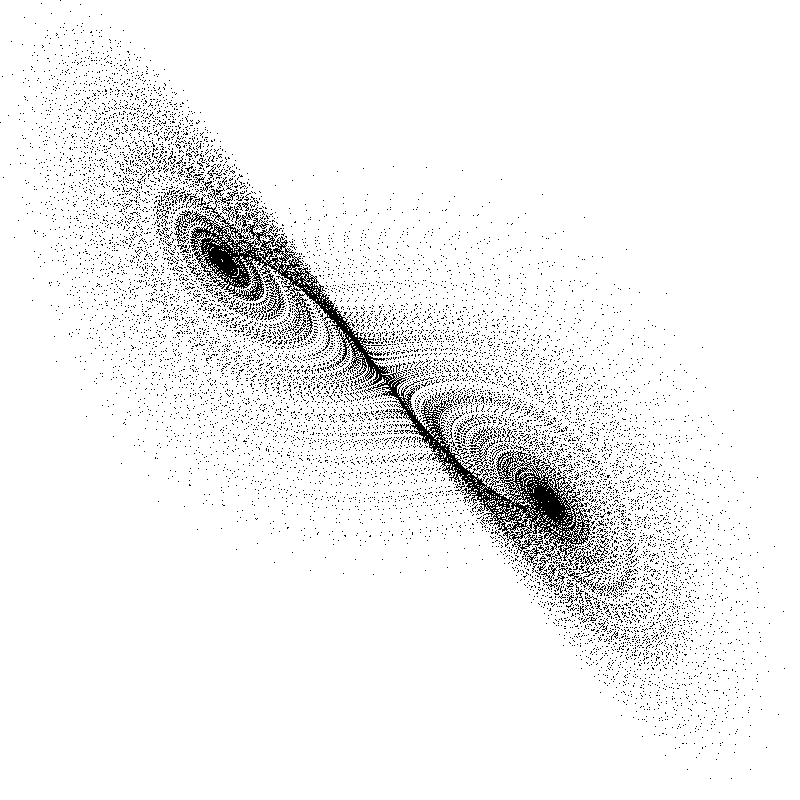
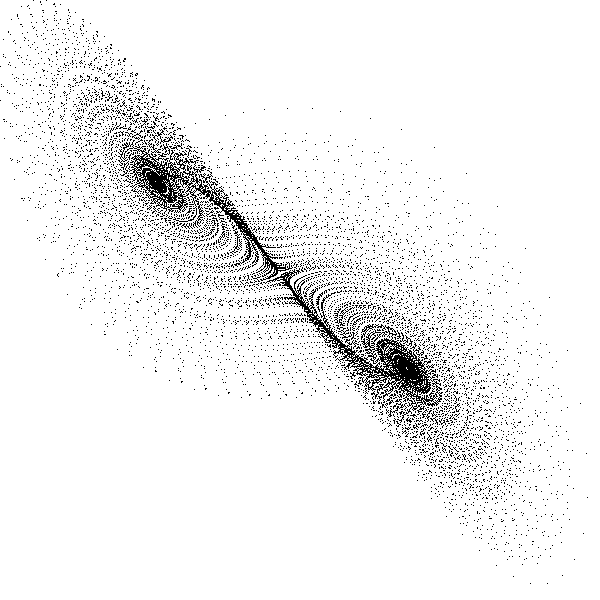
Minor edit to README.md

Changed region(s): [[0.03, 0.03, 0.9, 0.93]]

diff --git a/Drawer.py b/Drawer.py
@@ -34,5 +34,5 @@ def create_attractor(iterations, dt):
     return attr
 
 
-attractor = create_attractor(50000, .01)
-draw(attractor, 800, 800, "test")
+attractor = create_attractor(25000, .01)
+draw(attractor, 600, 600, "test")

diff --git a/README.md b/README.md
@@ -1,4 +1,5 @@
 # Strange Attractor Project
 ![](https://github.com/sleepokay/attractor/blob/master/media/test.png)
+Sample output
 
-A strange attractor project in Python 3. Only produces the usual [Lorenz attractor](https://en.wikipedia.org/wiki/Lorenz_system) at the moment. More to come.
+A strange attractor project in Python 3. Only produces the usual [Lorenz attractor](https://en.wikipedia.org/wiki/Lorenz_system) at the moment. More to come!
